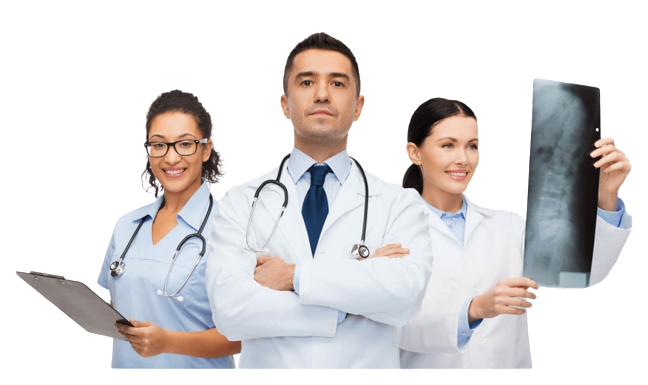
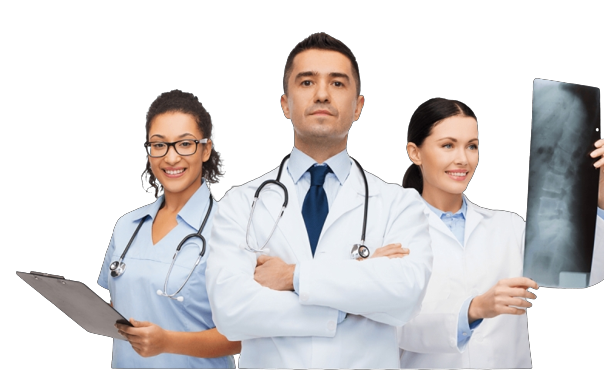
frontend

diff --git a/frontend/src/assets/styles/HomeScreen.css b/frontend/src/assets/styles/HomeScreen.css
@@ -8,7 +8,7 @@
 .sec1{
     height: 43vw;
     background:linear-gradient(to right, #f5f8f8 0%, #f5f8f8 64% , #25bfab 64%, #25bfab 100%) ;
-    filter: blur(0.3px);
+    /* filter: blur(0.3px); */
     /* float: right; */
 }
 .sec1 .inner .first{
@@ -84,55 +84,153 @@
 }
 
 .sec2 {
-    height: 43vw;
     background: #f9fbfb;
-    filter: blur(0.4px);
-    /* float: right; */
+    padding: 2vw;
 }
 
 .sec2 h1{
     font-family: Libre Baskerville,serif;
-    padding: 7vw 5vw 5vw 5vw;
+    padding: 2vw 5vw 5vw 5vw;
     width: 50vw;
     word-spacing: 3px;
     font-size: 3vw
-    /* background: #0000002e; */
 }
 .sec2 .inner{
-    display: flex;
-    justify-content: center;
-    gap:8vw
+    display: grid;
+    grid-template-columns: repeat(auto-fit, minmax(280px, 1fr));
+    gap: 2vw;
 
 }
 .sec2 .inner .card{
-    height: 20vw;
-    width: 22vw;
+    height: 300px;
+    width: 350px;
     border-radius: 10px;
     background:  #f1f7f7;
     box-shadow: 0.2px 0.2px 5px rgba(130, 137, 135, 0.17) ;
 }
 .sec2 .inner .card:hover{
-    height: 21vw;
-    width: 25vw;
+    height: 300px;
+    width: 370px;
     border-radius: 10px;
     background:  #f1f7f7;
-    box-shadow: 1px 1px 5px rgba(0, 0, 0, 0.17) ;
+    box-shadow: 1px 1px 10px rgba(0, 0, 0, 0.17) ;
+    transition: 0.5s;
 }
 
 .sec3{
     height: 43vw;
     background: #f9fbfb;
-    filter: blur(0.4px);
+    /* filter: blur(0.4px); */
+}
+
+.sec3 .sec3-img{
+    width: 39vw;
+    height:33vw ;
+    padding: 2vw;
+}
+
+.sec3 .sec3-img img{
+    width: 100%;
+    height:100%;
+    margin: 3vw;
+}
+
+.sec3 .sec3-img img:hover{
+    width: 100%;
+    height:100%;
+    margin: 3vw;
+    transition: 0.5s;
 }
 
 .sec4{
     height: 35vw;
     background: #f9fbfb;
-    filter: blur(0.4px);
+    /* filter: blur(0.4px); */
 }
 
 .sec5{
     height: 23vw;
     background: #25bfab;
-    filter: blur(0.4px);
+    /* filter: blur(0.4px); */
+}
+
+@media (max-width:550px){
+    .sec1{
+        height: 80vw;
+    }
+
+    .sec1 .inner .first{
+        top:25vw
+    }
+
+    .inner h2{
+        font-size: 5vw;
+        padding: 0vw 0vw 1.5vw 0vw;
+    }
+
+    .inner .first p{
+        font-size: 1.6vw;
+    }
+    
+    .inner .first button{
+        padding: 1.2vw 2.2vw 1.2vw 2.2vw;
+        border-radius: 13px;
+        margin: 0.6vw;
+        background:  #21a89f;
+        color: white;
+        border-color: #21a89f ;
+        font-size: 2.3vw;
+    }
+    .sec1 .inner .second{
+        width: 50%;
+        float: right;
+        position: absolute;
+        left: 43vw;
+        top:9.5vw;
+    }
+
+    .sec1 .inner .second{
+        left:35vw;
+        top:20vw;
+    }
+    .sec1 .inner .second .doctors {
+        height: 62.7vw;
+        width: 65vw;
+    }
+
+    .sec1 .design1 {
+        height: 10vw;
+        width: 10vw;
+        left: 45vw;
+        top:15vw;
+    }
+    
+    .sec1 .design2 {
+        display: none;
+    }
+    
+    .sec1 .design3 {
+        height: 9vw;
+        width: 9vw;
+        left: 78vw;
+        top: 15vw;
+    }
+    .sec2 h1{
+        padding: 2vw 5vw 5vw 5vw;
+        font-size: 6vw;
+        width: 70%;
+    }
+
+    .sec2 .inner .card{
+        height: 45vw;
+        width: 80vw;
+        margin: 2vw 7vw;
+    }
+    .sec2 .inner .card:hover{
+        height: 50vw;
+        width: 85vw;
+        border-radius: 10px;
+        background:  #f1f7f7;
+        box-shadow: 1px 1px 10px rgba(0, 0, 0, 0.17) ;
+    }
 }

diff --git a/frontend/src/Components/HomeScreen.js b/frontend/src/Components/HomeScreen.js
@@ -7,6 +7,7 @@ import doctors from "../assets/images/doctor-bg.png"
 import design1 from '../assets/images/design1.png'
 import design2 from '../assets/images/design2.png'
 import design3 from '../assets/images/design3.png'
+import downdoctor from '../assets/images/down-doctor.png'
 
 function HomeScreen() {
 
@@ -39,15 +40,32 @@ function HomeScreen() {
         <div className='sec2'>
           <h1>The Best Quality Services You Can Get</h1>
           <div className="inner">
-            <div className="card"></div>
-            <div className="card"></div>
-            <div className="card"></div>
+            <div className="card">
+              <img src="https://images.pexels.com/"/>
+              <h2>Hostipals</h2>
+              <p>Lorem ipsum dolor sit amet consectetur adipisicing el </p>
+              <button>Know this more</button>
+            </div>
+            <div className="card">
+               <img src="https://images.pexels.com/"/>
+              <h2>Doctors</h2>
+              <p>Lorem ipsum dolor sit amet consectetur adipisicing el </p>
+              <button>Know this more</button>
+            </div>
+            <div className="card">
+              <img src="https://images.pexels.com/"/>
+              <h2>Medicines</h2>
+              <p>Lorem ipsum dolor sit amet consectetur adipisicing el </p>
+              <button>Know this more</button>
+            </div>
           </div>
         </div>
 
 
         <div className='sec3'>
-            
+            <div className="sec3-img">
+              <img src={downdoctor} alt="" />
+            </div>
         </div>
 
         <div className='sec4'>

diff --git a/frontend/src/assets/styles/NavBar.css b/frontend/src/assets/styles/NavBar.css
@@ -5,6 +5,10 @@
     font-family:Georgia, 'Times New Roman', Times, serif
 }
 
+a{
+    color: white;
+}
+
 .nb-parent{
     height: 10vh;
     width: 100%;
@@ -28,7 +32,7 @@
 }
 
 .nb-parent .nb-part1{
-    font-size: 3.3vw;
+    font-size: 3.0vw;
     text-decoration:none ; 
     color: black;
 }
@@ -63,7 +67,7 @@
 
 
 .nb-parent .hamburger-menu{
-    font-size: 4vw;
+    font-size: 7.5vw;
     display:none;
     padding-right: 1.8vw;
     color: white;
@@ -86,9 +90,6 @@
 
     list-style-type: none;
 }
-/* .parent .part21 li{
-    padding: 2vw 1vw 2vw 1vw;
-} */
 
 .nb-parent .nb-part21 a{
     text-decoration:none ; 
@@ -112,12 +113,19 @@
         height: 8vh;
         padding: 0.5vw 4vw 0vw 4vw;
     }
+
+    .nb-parent .nb-part1 .div1{
+        margin-top: 2vw;
+        font-size: 6vw;
+    }
+
     .nb-parent .nb-child{
         /* gap:50vw; */
         margin-right:2vw;
     }
     .nb-parent .nb-part1{
         font-size: 5vw;
+        margin-top: 1vw;
     }
     .nb-parent .nb-part2 li{
         display: none;

diff --git a/frontend/src/Components/NavBar.js b/frontend/src/Components/NavBar.js
@@ -1,6 +1,7 @@
 import React,{useState} from 'react'
 import {Link} from 'react-router-dom'
-import {GiHamburgerMenu} from 'react-icons/gi'
+// import {GiHamburgerMenu} from 'react-icons/gi'
+import { RiMenuFoldLine } from "react-icons/ri";
 import '../assets/styles/NavBar.css'
 import logo from "../assets/images/CareGrid_logo.png"
 
@@ -13,7 +14,7 @@ function NavBar() {
         <div className='nb-child'>
             <a className="nb-part1" href='/home'>
             <img src={logo} alt="" />
-                <div>CareGrid</div>
+                <div className='div1'>CareGrid</div>
             </a>
             <div className={!click ?"nb-part2":"nb-part21"}>
               <li><Link to='/appointment'>Appointment</Link></li>
@@ -28,7 +29,7 @@ function NavBar() {
         </div>
         <div class="hamburger-menu">
                 <a href="#" onClick={()=>{setClick(!click)}}>
-                    <GiHamburgerMenu />
+                   <RiMenuFoldLine />
                 </a>
          </div>
     </nav>

diff --git a/frontend/src/Components/AutoSlider.js b/frontend/src/Components/AutoSlider.js
@@ -7,7 +7,7 @@ const CardSlider = ({ cards }) => {
   useEffect(() => {
     const interval = setInterval(() => {
       // Calculate the next index, looping back to the beginning if necessary
-      setCurrentIndex((prevIndex) => (prevIndex + 1) % cards.length);
+      setCurrentIndex((prevIndex) => (prevIndex +1) % cards.length);
     }, 3000); // Change card every 3 seconds (adjust as needed)
 
     return () => {
@@ -51,14 +51,6 @@ const AutoSlider = () => {
     {
       title: 'Card 4',
       description: 'Description for Card 1',
-    },
-    {
-      title: 'Card 5',
-      description: 'Description for Card 2',
-    },
-    {
-      title: 'Card 6',
-      description: 'Description for Card 3',
     },
   ];
 

diff --git a/frontend/src/Components/Login.js b/frontend/src/Components/Login.js
@@ -11,6 +11,7 @@ import FloatImg1 from '../assets/images/img1.png'
 import FloatImg2 from '../assets/images/img2.png'
 import FloatImg3 from '../assets/images/img3.png'
 import { useNavigate,Link } from 'react-router-dom';
+
 function Login() {
     const [hosp, setHosp] = useState(false)
     const [customer, setCustomer] = useState(false)
